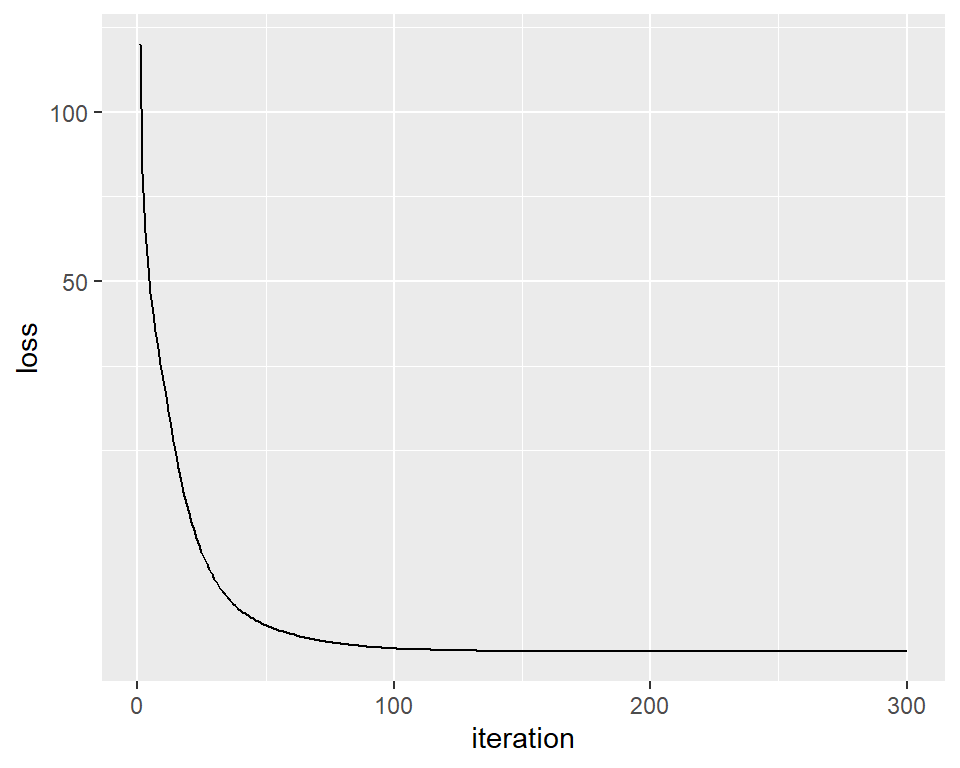
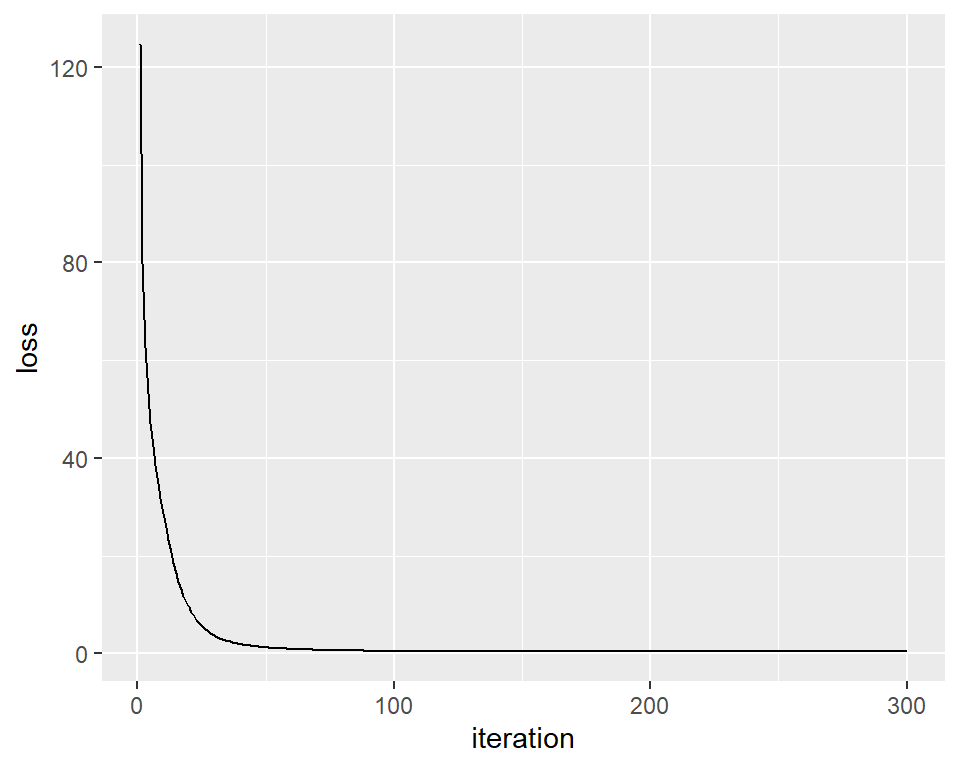
Write final report

diff --git a/Final_Report.html b/Final_Report.html
@@ -405,6 +405,63 @@ div.tocify {
 </div>
 <div id="additional-analysis" class="section level1">
 <h1>Additional analysis</h1>
+<div id="identification-of-differentiable-movies" class="section level3">
+<h3>Identification of differentiable movies</h3>
+<p>We implemented adaptive bootstrapping algorithm <a href="https://dl.acm.org/doi/10.1145/1935826.1935910">(Golbandi, N., et al. 2011)</a> to find movies significantly differentiate people of different taste.</p>
+<p> </p>
+<p>According to user’s response to the given movie, the algorithm classifies users into three sub-groups: lovers <span class="math inline">\(N^{+}\)</span>, haters <span class="math inline">\(N^{-}\)</span>, and people unknown of the movie <span class="math inline">\(\overline{N}\)</span>. We choose 3.5 as the cut-off to determine whether users are lovers or haters, as our exploratory analysis found that 3.5 is the median of all ratings.</p>
+<p> </p>
+<p>The algorithm defined a term <span class="math inline">\(D_{m}\)</span>, which is equal to the sum of subgroups’ standard deviation of ratings on other movies (<span class="math inline">\(\space D(m) = \sigma_{u \in N^{+}(m)} + \sigma_{u \in N^{-}(m)} + \sigma_{u \in \overline{N}(m)} \space\)</span>), to measure movies’ differentiation ability. By the definition, the most differential movie, i.e. the best splitter, should have the lowest <span class="math inline">\(D_{m}\)</span>, because bad splitters will divide people with different taste into the same sub-group, resulting in increased <span class="math inline">\(D_{m}\)</span>.</p>
+<p> </p>
+<p>Once the algorithm found the most differential movie for overall users, it will repeat the above process in the 3 sub-groups, Lovers, haters and people unknown of this movie, separately. This recursive process was thus named bootstrapping. Subsequently, the algorithm will build a structure similar to a decision tree whose nodes are movies. Our implementation constructed such a ternary tree structure with a depth of 3. The result can be interpreted by the figure below:</p>
+<p><img src="pics/recsys.png" style="width:80%"></p>
+<p> </p>
+<p>For new users, let them rate on “The Last Samurai” at first. Users who give ratings above or equal to 3.5 are considered to be lovers, and those who give ratings below 3.5 are considered to be haters. Users can also reply that they haven’t watched this movie. For lovers, we then let them rate on “The Lord of the Rings: The Two Towers”, for haters we let them rate on “Finding Nemo”, and the unknown will be asked to rate on “City of God”. After rating on the second provided movie, users will then be asked to rate on the third movie which is also adaptively provided.</p>
+<p> </p>
+<p>Since these movies significantly differentiate people of different taste, collection of user’s rating on them will allow us to generate more personalized recommendation.</p>
+<p> </p>
+</div>
+<div id="user-similarity-based-recommendation" class="section level3">
+<h3>User-similarity-based recommendation</h3>
+<p>A basic strategy for recommendation is, find users similar to the new user, and recommend the new user with what similar users like. Based on this strategy, a technique, collaborative filtering, was invented to making predictions (filtering) about the interests of a user by collecting preferences or taste information from many similar users (collaborating).</p>
+<p> </p>
+<p>This algorithm predict ratings with the following procedures: - Find X most similar users to the given user (Here we set X to 10) - Find all movies that these similar users have rated and the given user has not watched - Predict the given user’s ratings on these movies based on the similarity measure and ratings of similar users. The formula is:</p>
+<p><span class="math display">\[
+\hat{r}_{u m}=\bar{r}_{u}+\frac{\sum_{v \in S(u, K) \cap N(m)} w_{u v}\left(r_{v m}-\bar{r}_{v}\right)}{\sum_{v \in S(u, K) \cap N(m)}\left|w_{u v}\right|}
+\]</span></p>
+<p>In the above process, finding similar users and predicting ratings involve the measurement of similarity, <span class="math inline">\(w_{uv}\)</span>. We considered two measurements, cosine similarity and Pearson correlation, and compared their performance through experimentation.</p>
+<p><span class="math display">\[
+\begin{align}
+&amp; \text{Cosine Similarity}: &amp; w_{u v} = \frac{\sum_{m \in M} r_{u m} \cdot r_{v m}}{\sqrt{\sum_{m \in M}r_{u m}^{2} \cdot \sum_{m \in M}r_{v m}^{2}}}
+\\
+\\
+&amp; \text{Pearson Correlation}: &amp; w_{u v} =\frac{ \sum_{m \in M}\left(r_{u m}-\bar{r}_{u}\right) \cdot\left(r_{v m}-\bar{r}_{v}\right)}{\sqrt{\sum_{m \in M}\left(r_{u m}-\bar{r}_{u}\right)^{2} \sum_{m \in M}\left(r_{v m}-\bar{r}_{v}\right)^{2}}}
+\end{align}
+\]</span></p>
+<p>We performed 30 rounds of experiment. In each round, for each user, we randomly extract 20% records of their ratings as the test dataset, and the remained dataset as train dataset. Then, we use the two similarity measures separately to find similar users and subsequent predicted ratings on corresponding movies in the test dataset. Finally, we compute the RMSE between predicted ratings and actual ratings in the test data set, and get the two RMSE values.</p>
+<p> </p>
+<p>The <a href="https://shaocongz.github.io/Final_Project/user_similarity.html#Compare_RMSE">comparison between RMSE values</a> of predictions based on the two measurement revealed that in this dataset, Pearson correlation is a better measurement which leads to smaller prediction error. Therefore, we implemented the algorithm with Pearson correlation in our shiny app.</p>
+<p> </p>
+</div>
+<div id="latent-factor-based-recommendation" class="section level3">
+<h3>Latent-factor-based recommendation</h3>
+<p>we built a latent factor model based on Funk-SVD to predict ratings for existing users in the dataset.</p>
+<p> </p>
+<p>Funk-SVD was named and authored by <a href="https://sifter.org/~simon/journal/20061211.html">Simon Funk</a>. The core idea of this algorithm is that decompose the user-movie sparse matrix <span class="math inline">\(R\)</span> into two matrix, the user feature matrix <span class="math inline">\(P\)</span> and the movie feature matrix <span class="math inline">\(Q\)</span> which satisfies <span class="math inline">\(R = P \times Q^T\)</span>, then predicted rating by calculating <span class="math inline">\(\displaystyle R_{um} = P_u \cdot Q^T_m\)</span>. Features are latent factors that we can’t and don’t have to directly measure or understand.</p>
+<p> </p>
+<p>In human words, the interaction between a user’s latent characteristics and a movie’s latent characteristics decides the user’s rating to the movie. Find values of these latent characteristics by decomposing the rating matrix, then predict ratings based on them.</p>
+<p> </p>
+<p>We implemented this algorithm and predicted ratings on the matrix constructed from the first 20 users and the first 20 movies in the dataset. To find <span class="math inline">\(P\)</span>, <span class="math inline">\(Q\)</span>, we generated two random matrix, and performed gradient descent to minimize the loss to let their product approximate the true rating matrix.</p>
+<p> </p>
+<p>In gradient descent, the loss function was defined as:</p>
+<p><span class="math display">\[\displaystyle L(P, Q) = \sum_{(u, m) \in \text{Train}} \left(R_{um} - P_u \cdot Q^T_m \right)^2  + \lambda \sum_u||P_u||^2 + \lambda \sum_m ||Q_m||^2\]</span></p>
+<p>By performing differentiation, we found the partial derivatives of loss to <span class="math inline">\(P\)</span> and to <span class="math inline">\(Q\)</span>:</p>
+<p><span class="math display">\[\frac {\partial}{\partial P_u}L = \sum_{m} 2(P_uQ_m^T - R_{um})Q_m + 2\lambda P_u \\ \frac {\partial}{\partial Q_m}L = \sum_{u} 2(P_uQ_m^T - R_{um})P_u + 2\lambda Q_m\]</span></p>
+<p>Accordingly, we can update the value of <span class="math inline">\(P\)</span> and <span class="math inline">\(Q\)</span> in each round of gradient descent:</p>
+<p><span class="math display">\[P_u := P_u - \alpha \frac {\partial L}{\partial P_u} \\ Q_m := Q_m - \alpha \frac {\partial L}{\partial Q_m}\]</span></p>
+<p>Our train process on the train data <a href="https://shaocongz.github.io/Final_Project/SVD.html#Train">minimized the loss to approximately 0</a>. We further applied this model to <a href="https://shaocongz.github.io/Final_Project/SVD.html#Predict__Visualization">predict ratings for NA value in the original rating matrix</a>. With the size of the matrix in the train data enlarges, the time cost for training this model accurately increases. Therefore, we didn’t apply this model in our shiny app or try to optimize this model.</p>
+<p> </p>
+</div>
 </div>
 <div id="discussion" class="section level1">
 <h1>Discussion</h1>

diff --git a/SVD.html b/SVD.html
@@ -556,13 +556,12 @@ loss_path = tibble(
 
 loss_path %&gt;% 
     ggplot(aes(y = loss, x = iteration)) +
-    geom_line(group = 1) +
-    scale_y_sqrt()</code></pre>
+    geom_line(group = 1)</code></pre>
 <p><img src="SVD_files/figure-html/unnamed-chunk-6-1.png" width="480" /></p>
 <p> </p>
 </div>
 <div id="predict-visualization" class="section level2">
-<h2>Predict &amp; visualization</h2>
+<h2>Predict &amp; Visualization</h2>
 <p>After training, we then predict user’s ratings on movies they haven’t seen, and visualize the predict result.</p>
 <pre class="r"><code>R_pred = 
     P %*% as.matrix(t(Q)) %&gt;% 

diff --git a/user_similarity.html b/user_similarity.html
@@ -517,6 +517,7 @@ get_similar = function(user, calc_sim){
   
   return(calc_df)
 }</code></pre>
+<p>We calculate the similarity score between the given user and every other users, and choose 10 users with highest similarity as similar users.</p>
 <p> </p>
 </div>
 <div id="rating-prediction" class="section level3">
